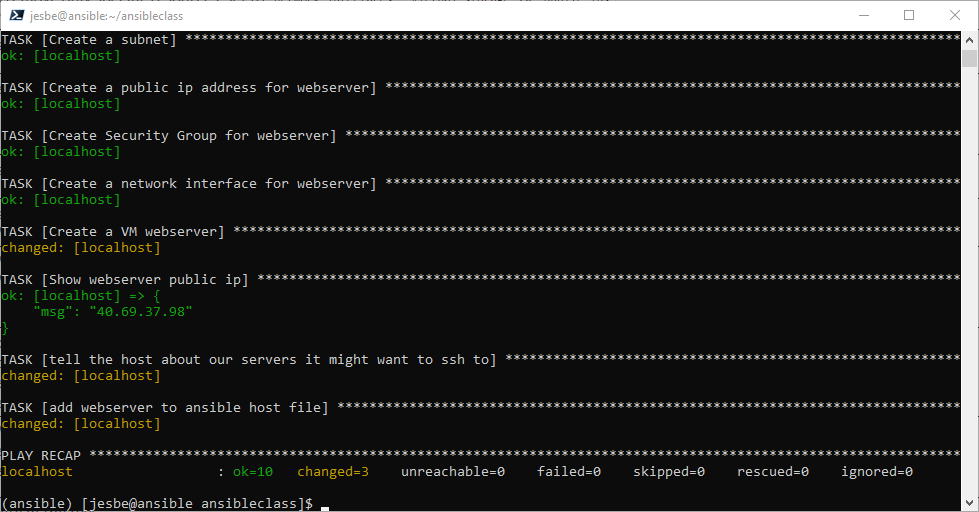
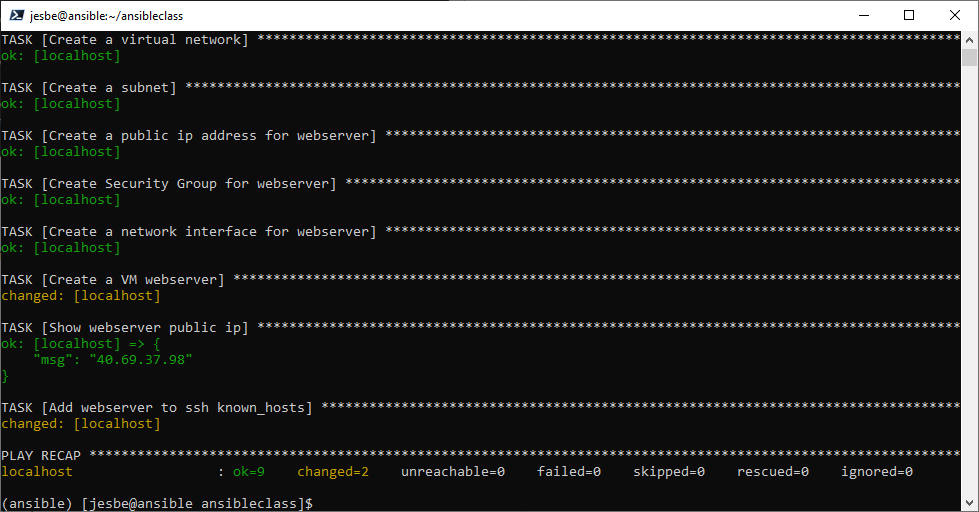
azure vm run

diff --git a/lab04/lab4.md b/lab04/lab4.md
@@ -355,13 +355,9 @@ In VSCode add the next sections to the 02_azure.yml playbook
     debug:
       msg: "{{ webserver_pub_ip.state.ip_address }}"
 
-  - name: tell the host about our servers it might want to ssh to
+  - name: Add webserver to ssh known_hosts
     shell: "ssh-keyscan -t ecdsa {{ webserver_pub_ip.state.ip_address }}  >> /home/{{ user }}/.ssh/known_hosts"
 
-  - name: add webserver to ansible host file
-    add_host:
-      name: "{{ webserver_pub_ip.state.ip_address }}"
-      groups: webserver
 ```
 
 ![Alt text](pics/016_azure_vm.png?raw=true "azure vm playbook")
